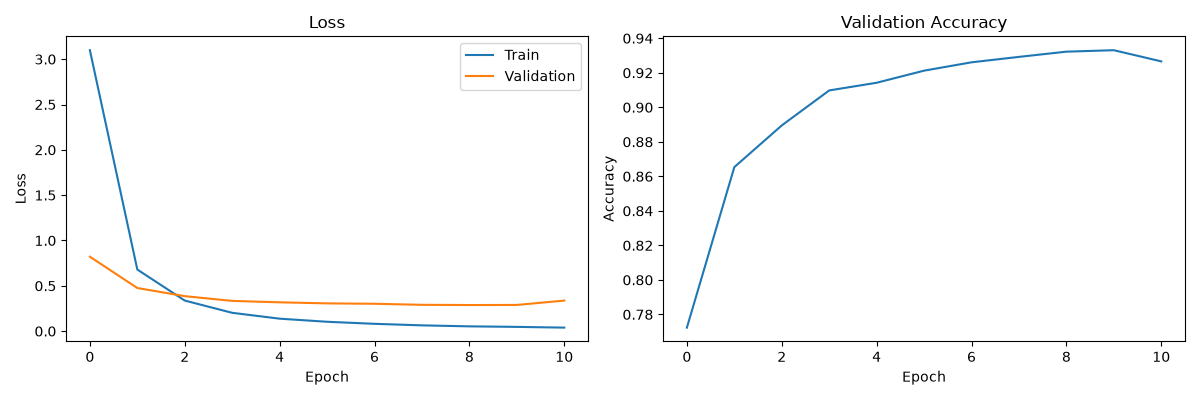
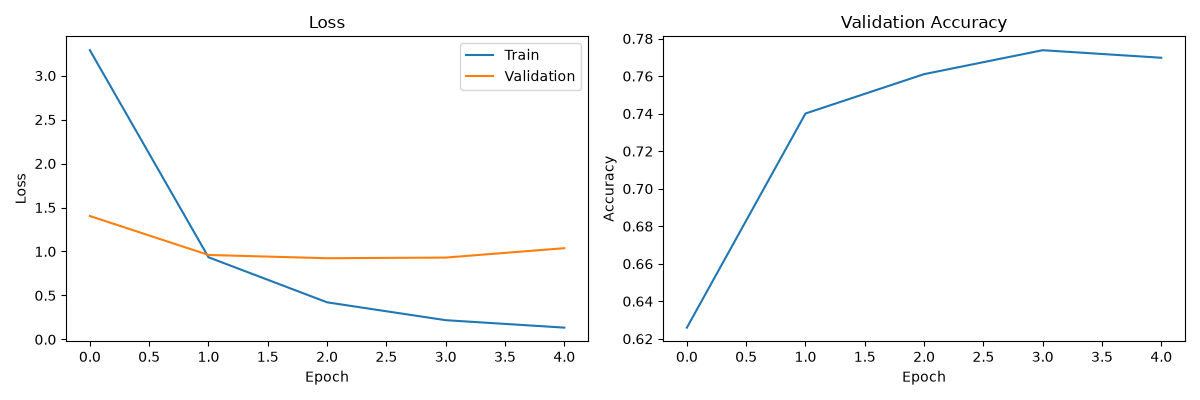
Error analysis and resolution experiment

diff --git a/analyse.py b/analyse.py
@@ -1,0 +1,77 @@
+from main import CNN
+import os
+import torch
+from torch.utils.data import TensorDataset
+from torch.utils.data import Dataset, DataLoader, random_split
+from collections import Counter
+import matplotlib.pyplot as plt
+
+def analyse():
+    if not(os.path.exists("data.pt")):
+        print("You need preprocess and train first.")
+        return
+
+    # Load the Data
+    data = torch.load("data.pt")
+    classes = data["classes"]
+    dataset = TensorDataset(data["images"], data["labels"])
+    _, _, test_data = random_split(dataset, [0.8, 0.1, 0.1], generator=torch.Generator().manual_seed(42))
+    test_loader = DataLoader(test_data, batch_size=64, num_workers= os.cpu_count() // 2, persistent_workers=True, pin_memory=True)
+
+    # Initialize the Model
+    model = CNN(len(classes))
+    model.load_state_dict(torch.load("model.pt"))
+
+    device = "cuda" if torch.cuda.is_available() else "cpu"
+    model.to(device)
+    model.eval()
+    wrong_images = []
+    real_labels = []
+    predictions = []
+    with torch.no_grad():
+        for image, label in test_loader:
+            image = image.to(device).float() / 255
+            label = label.to(device)
+            prediction = model(image)
+            prediction = prediction.argmax(dim=1)
+            wrong = prediction != label
+            # Store alle Images, Labels and Predictions
+            wrong_images.append(image[wrong].cpu())
+            real_labels.append(label[wrong].cpu())
+            predictions.append(prediction[wrong].cpu())
+
+    wrong_images = torch.cat(wrong_images)
+    real_labels = torch.cat(real_labels)
+    predictions = torch.cat(predictions)
+    #print(f"Wrong Images: {len(wrong_images)}")
+    #print(f"Real Labels: {len(real_labels)}")
+    #print(f"Predictions: {len(predictions)}")
+
+    pairs = zip(real_labels.tolist(), predictions.tolist())
+    # Count the most common pairs
+    counted_pairs = Counter(pairs).most_common(20)
+    for (real, guess), count in counted_pairs:
+        print(f"{classes[real]} ---> {classes[guess]}: {count}")
+
+
+    # Sample Pictures
+
+    plt.rcParams["font.family"] = "Malgun Gothic"
+    fig, axes = plt.subplots(4, 5, figsize=(10, 10))
+    
+    for i, ax in enumerate(axes.flat):
+        ax.imshow(wrong_images[i][0], cmap="gray")
+        ax.axis("off")
+        ax.set_title(f"{classes[real_labels[i].item()]} --- >{classes[predictions[i].item()]}")
+    fig.tight_layout() 
+    fig.savefig("images/errors_128.png")
+    plt.show()
+
+        
+
+
+
+
+
+if __name__ == "__main__":
+    analyse()

diff --git a/main.py b/main.py
@@ -16,19 +16,24 @@ class CNN(nn.Module):
         conv1 = nn.Conv2d(in_channels=1, out_channels=32,kernel_size=3, padding=1)
         conv2 = nn.Conv2d(in_channels=32, out_channels=64,kernel_size=3, padding=1)
         conv3 = nn.Conv2d(in_channels=64, out_channels=128,kernel_size=3, padding=1)
+        conv4 = nn.Conv2d(in_channels=128, out_channels=256,kernel_size=3, padding=1)
         batchnorm1 = nn.BatchNorm2d(num_features=32)
         batchnorm2 = nn.BatchNorm2d(num_features=64)
         batchnorm3 = nn.BatchNorm2d(num_features=128)
+        batchnorm4 = nn.BatchNorm2d(num_features=256)
         relu = nn.ReLU()
         maxpool = nn.MaxPool2d(kernel_size=2)
         flatten = nn.Flatten()
         dropout = nn.Dropout(0.5)
-        fc = nn.Linear(8192, num_classes)
+        #fc = nn.Linear(8192, num_classes) with 64 x 64
+        fc = nn.Linear(16384, num_classes) # 128 × 16 × 16
+
         
         self.layers = nn.Sequential(
             conv1, batchnorm1, relu, maxpool,
             conv2, batchnorm2, relu, maxpool, 
             conv3, batchnorm3, relu, maxpool, 
+            conv4, batchnorm4, relu, maxpool,
             flatten, dropout, fc)
 
     def forward(self, x):
@@ -39,6 +44,7 @@ class CNN(nn.Module):
 
 def main():
     if not(os.path.exists("data.pt")):
+        print("Preprocessing")
         preprocess()
     
     data = torch.load("data.pt")
@@ -119,7 +125,7 @@ def main():
 
     plt.tight_layout()
     os.makedirs("images", exist_ok=True)
-    fig.savefig("images/training_earlystopping.png")
+    fig.savefig("images/training_earlystopping_2.png")
     plt.show()
 
 

diff --git a/preprocess.py b/preprocess.py
@@ -20,7 +20,8 @@ class HangulDataset(Dataset):
         sample = Image.open(os.path.join(self.path_data, self.data[index])).convert("L")
         bbox = sample.getbbox()
         crop = sample.crop(bbox)
-        sample = ImageOps.pad(crop, (56, 56))
+        #sample = ImageOps.pad(crop, (56, 56)) 64 x 64 Pixel
+        sample = ImageOps.pad(crop, (120, 120))
         sample = ImageOps.expand(sample, border=4)
         sample = self.transformer(sample)
 

diff --git a/README.md b/README.md
@@ -1,39 +1,87 @@
 # Hangul Character Classification
 
-A convolutional neural network in PyTorch that recognizes **2,350 Korean Hangul syllables** from single-character images. Trained on ~260,000 images, it reaches **~92.9% test accuracy** on a held-out test set that was used only once.
+A convolutional neural network in PyTorch that recognizes **2,350 Korean Hangul syllables** from single-character images. Trained on ~260,000 images, it reaches **~93.5% test accuracy** on a held-out test set that was used only once.
 
-I built this as a learning project to understand the full deep learning workflow: loading and preprocessing image data, building a CNN, training on a GPU and evaluating honestly.
+I built this as a learning project to understand the full deep learning workflow: loading and preprocessing image data, building a CNN, training on a GPU, evaluating honestly and analysing what the model gets wrong.
 
 ## Results
 
-| Model | Test accuracy | Test loss (final epoch) |
+| Model | Input | Test accuracy |
 |---|---|---|
-| CNN | ~92.2% | ~0.38 (rising again) |
-| CNN + Dropout | **~93.7%** | **~0.28 (stable)** |
+| CNN, 3 conv blocks | 64×64 | ~92.2% * |
+| + Dropout | 64×64 | ~93.7% * |
+| + Validation set and early stopping | 64×64 | ~92.9% |
+| Same model, higher resolution | 128×128 | ~75.8% |
+| **4 conv blocks (final model)** | **128×128** | **~93.5%** |
 
 Random guessing would be 1 / 2,350 ≈ 0.04%.
 
-These first two numbers come from an earlier 80/20 train/test split where I also used the test set to compare models, so they are slightly too optimistic. The final model below fixes that.
+\* These two numbers come from an earlier 80/20 train/test split where I also used the test set to compare models, so they are slightly too optimistic. All later models use a separate validation set.
 
 **Without dropout**: the training loss drops to almost 0 while the test loss starts rising again after epoch 6, so the model is memorizing the training data (overfitting).
 
-![Training without dropout](images/training.png)
+![Training without dropout](images/training_64.png)
 
 **With dropout** (p = 0.5 before the final layer): the gap between training and test loss is smaller, the test loss stays flat and accuracy improves by ~1.5 percentage points (about 800 more correctly classified test images).
 
-![Training with dropout](images/training_withdropout.png)
+![Training with dropout](images/training_withdropout_64.png)
 
-### Final model: validation set and early stopping
+### Validation set and early stopping
 
-The data is now split 80% training / 10% validation / 10% test. After every epoch the model is evaluated on the validation set:
+The data is split 80% training / 10% validation / 10% test. After every epoch the model is evaluated on the validation set:
 
 - The model with the **lowest validation loss** so far is saved to `model.pt`.
 - Training **stops early** when the validation loss is not at least 0.001 lower than three epochs before.
 - At the end, the best saved model is loaded and evaluated **once** on the test set.
 
-Training stopped after 11 epochs because the validation loss started rising again, while the training loss kept falling. The best validation accuracy was ~93.3%; the final **test accuracy is ~92.9%**. That it is slightly lower than the validation accuracy is expected: the model was picked on the validation set, so only the test set gives an unbiased number.
+With 64×64 input, training stopped after 11 epochs. The best validation accuracy was ~93.3%, the test accuracy **~92.9%**. That it is slightly lower than the validation accuracy is expected: the model was picked on the validation set, so only the test set gives an unbiased number.
 
-![Training with validation set and early stopping](images/training_earlystopping.png)
+![Training with validation set and early stopping, 64×64](images/training_earlystopping_64.png)
+
+### Resolution experiment: 64×64 → 128×128
+
+The error analysis (see below) showed that most mistakes come down to a single small stroke. My hypothesis: at 64×64 these strokes are only 2–3 pixels wide, so a higher resolution should help.
+
+**First attempt: only the input size changed.** Validation accuracy peaked at ~77% and early stopping ended training after 5 epochs, because the validation loss started rising while the training loss kept falling.
+
+![128×128 with 3 conv blocks](images/training_earlystopping.png)
+
+The experiment was not fair, because changing the input size also changed the model:
+
+- After three 2×2 max-pools a 128×128 image is still 16×16, so the final linear layer grew from 8,192 to 32,768 inputs, about **77 million weights** in one layer. That makes memorizing the training data much easier.
+- Three 3×3 conv layers only "see" a small part of a 128×128 image, so recognizing the overall structure of a syllable was left to the linear layer.
+
+**Second attempt: a fourth conv block (256 channels).** Now the feature map is 8×8 again before the linear layer, just like with 64×64 input. Training stopped after 7 epochs and the final **test accuracy is ~93.5%**, about 0.6 percentage points (~150 test images) better than the 64×64 model.
+
+![128×128 with 4 conv blocks (final model)](images/training_earlystopping_2.png)
+
+Early stopping is based on the validation **loss**, not the accuracy. In the last epochs the accuracy still rose slightly while the loss stayed flat: the model gets a few more images right, but becomes more confident on the ones it gets wrong.
+
+## Error analysis
+
+`analyse.py` loads the best model, runs it on the test set and collects every misclassified image (~1,700 of 26,085 for the final model). It then counts the most frequent (true → predicted) pairs and plots a grid of examples.
+
+| True | Predicted | Count | Difference |
+|---|---|---|---|
+| 잦 | 찾 | 8 | ㅈ / ㅊ (one stroke on top) |
+| 꿜 | 뀔 | 5 | ㅞ / ㅟ |
+| 챌 | 잴 | 4 | ㅊ / ㅈ |
+| 뾔 | 뵈 | 4 | ㅃ / ㅂ (doubled consonant) |
+| 며 | 머 | 4 | ㅕ / ㅓ (one short stroke) |
+| 얀 | 안 | 4 | ㅑ / ㅏ (one short stroke) |
+| 뷜 | 붤 | 4 | ㅟ / ㅝ |
+| 뭇 | 믓 | 4 | ㅜ / ㅡ (one short stroke) |
+
+![Misclassified test images (true → predicted)](images/errors_128.png)
+
+What the errors have in common:
+
+- **Almost always only one jamo is wrong**, the rest of the syllable is recognized correctly. The model has learned the structure of Hangul and fails on details.
+- **The difference is usually a single short stroke**: plain vs. aspirated consonants (ㅈ/ㅊ, ㄷ/ㅌ), single vs. doubled consonants (ㅂ/ㅃ, ㄱ/ㄲ) and vowels with one stroke more or less (ㅓ/ㅕ, ㅏ/ㅑ).
+- **No pair occurs more than 8 times.** The errors are spread over many different pairs, there is no single weak spot.
+- **Some cases are ambiguous even for a human.** In fast handwriting a short stroke is often barely visible, and a few test images look closer to the predicted syllable than to their label, so part of the remaining error is probably handwriting ambiguity or label noise.
+
+The higher resolution reduced the total number of errors slightly, but the **type of error stayed the same**. This suggests that most of the remaining mistakes are not caused by missing pixels.
 
 ## Dataset
 
@@ -49,27 +97,30 @@ So each image is processed like MNIST:
 
 1. Convert to grayscale
 2. Crop to the bounding box of the character (`Image.getbbox()`)
-3. Scale it into a 56×56 square **without distorting the aspect ratio** (`ImageOps.pad`)
-4. Add a 4-pixel black border → 64×64
+3. Scale it into a 120×120 square **without distorting the aspect ratio** (`ImageOps.pad`)
+4. Add a 4-pixel black border → 128×128
 5. Scale pixel values from 0–255 to 0–1
 
-Because this is slow, `preprocess.py` runs it **once** for all images and saves the result as a single tensor file (`data.pt`, uint8). Training then loads it straight into memory with a `TensorDataset` instead of opening 260k files every epoch.
+(For the 64×64 models the character was scaled to 56×56 instead.)
+
+Because this is slow, `preprocess.py` runs it **once** for all images and saves the result as a single tensor file (`data.pt`, uint8, ~4.3 GB at 128×128). Training then loads it straight into memory with a `TensorDataset` instead of opening 260k files every epoch.
 
 ## Model
 
 ```
-Input 1×64×64
-→ [Conv 3×3 (32)  → BatchNorm → ReLU → MaxPool 2×2]   → 32×32×32
-→ [Conv 3×3 (64)  → BatchNorm → ReLU → MaxPool 2×2]   → 64×16×16
-→ [Conv 3×3 (128) → BatchNorm → ReLU → MaxPool 2×2]   → 128×8×8
-→ Flatten (8192) → Dropout(0.5) → Linear → 2350 classes
+Input 1×128×128
+→ [Conv 3×3 (32)  → BatchNorm → ReLU → MaxPool 2×2]   → 32×64×64
+→ [Conv 3×3 (64)  → BatchNorm → ReLU → MaxPool 2×2]   → 64×32×32
+→ [Conv 3×3 (128) → BatchNorm → ReLU → MaxPool 2×2]   → 128×16×16
+→ [Conv 3×3 (256) → BatchNorm → ReLU → MaxPool 2×2]   → 256×8×8
+→ Flatten (16384) → Dropout(0.5) → Linear → 2350 classes
 ```
 
 - **Conv2d**: slides small 3×3 filters over the image to detect local patterns: strokes and edges in the first layer, whole jamo like ㅇ or ㄱ in deeper layers.
 - **BatchNorm**: normalizes the outputs of each layer, which makes training faster and more stable.
 - **ReLU**: sets negative values to 0. Without this non-linearity, all layers together would just be one linear function.
-- **MaxPool**: keeps only the largest value of every 2×2 area, halving the image size (64 → 32 → 16 → 8). Saves computation and makes the network less sensitive to small shifts.
-- **Flatten**: turns the 128 feature maps of 8×8 into one vector of 8,192 values.
+- **MaxPool**: keeps only the largest value of every 2×2 area, halving the image size (128 → 64 → 32 → 16 → 8). Saves computation and makes the network less sensitive to small shifts.
+- **Flatten**: turns the 256 feature maps of 8×8 into one vector of 16,384 values.
 - **Dropout**: randomly switches off half of these values during training so the network can't rely on single features.
 - **Linear**: combines all features into one score per character. The highest score is the prediction.
 
@@ -80,8 +131,11 @@ Training: Adam (lr = 0.001), cross-entropy loss, batch size 64, up to 40 epochs 
 - **Look at your data before training.** My first resize made the characters unreadable. Only plotting a batch with its labels showed the problem.
 - **Preprocessing matters as much as the model.** Cropping to the character and keeping the aspect ratio made the images clearly readable at 64×64.
 - **Most training time was data loading, not the model.** Moving training to the GPU, loading with multiple workers and preprocessing everything once into a tensor file made training many times faster.
-- **Overfitting is visible in the loss curves.** When the training loss keeps falling but the test loss goes up, more epochs don't help. Dropout reduced this noticeably.
-- **Train / validation / test.** At first I compared models and picked settings using the test set, which made the reported accuracy slightly too optimistic (93.7%). Now every decision (best epoch, when to stop) is made on a separate validation set, and the test set is used only once at the end (92.9%).
+- **Overfitting is visible in the loss curves.** When the training loss keeps falling but the validation loss goes up, more epochs don't help. Dropout reduced this noticeably.
+- **Train / validation / test.** At first I compared models and picked settings using the test set, which made the reported accuracy slightly too optimistic (93.7%). Now every decision (best epoch, when to stop) is made on a separate validation set, and the test set is used only once at the end.
+- **Look at the errors, not just the accuracy.** The error analysis showed *what kind* of mistakes the model makes, which led to a concrete hypothesis to test.
+- **Change one thing at a time, and let the rest of the model grow with it.** Doubling the input size without adjusting the network made the model much worse. Only after adding a conv block was the comparison fair.
+- **Read shape errors.** In `mat1 and mat2 shapes cannot be multiplied (64x256 and 16384x2350)` the 256 is what actually arrives at the linear layer and the 16384 is what it expects.
 
 ## How to run
 
@@ -95,16 +149,15 @@ pip install pandas pillow matplotlib
 Download the dataset from Kaggle and place it in `hangul_characters_250k/` (with `labels-map.csv` inside). Then:
 
 ```bash
-python main.py
+python main.py      # preprocess (first run only) and train
+python analyse.py   # error analysis of the saved model
 ```
 
-On the first run, `preprocess.py` creates `data.pt`. The best model (lowest validation loss) is saved as `model.pt` and the training curves in `images/`.
+On the first run, `preprocess.py` creates `data.pt` (needs ~4.3 GB of RAM to load). The best model (lowest validation loss) is saved as `model.pt` and the training curves in `images/`.
 
 ## Next steps
 
 - Data augmentation (small rotations and shifts)
-- Error analysis: which characters get confused most?
 - Test on my own handwriting
-
 
 This Readme was enhanced with AI
